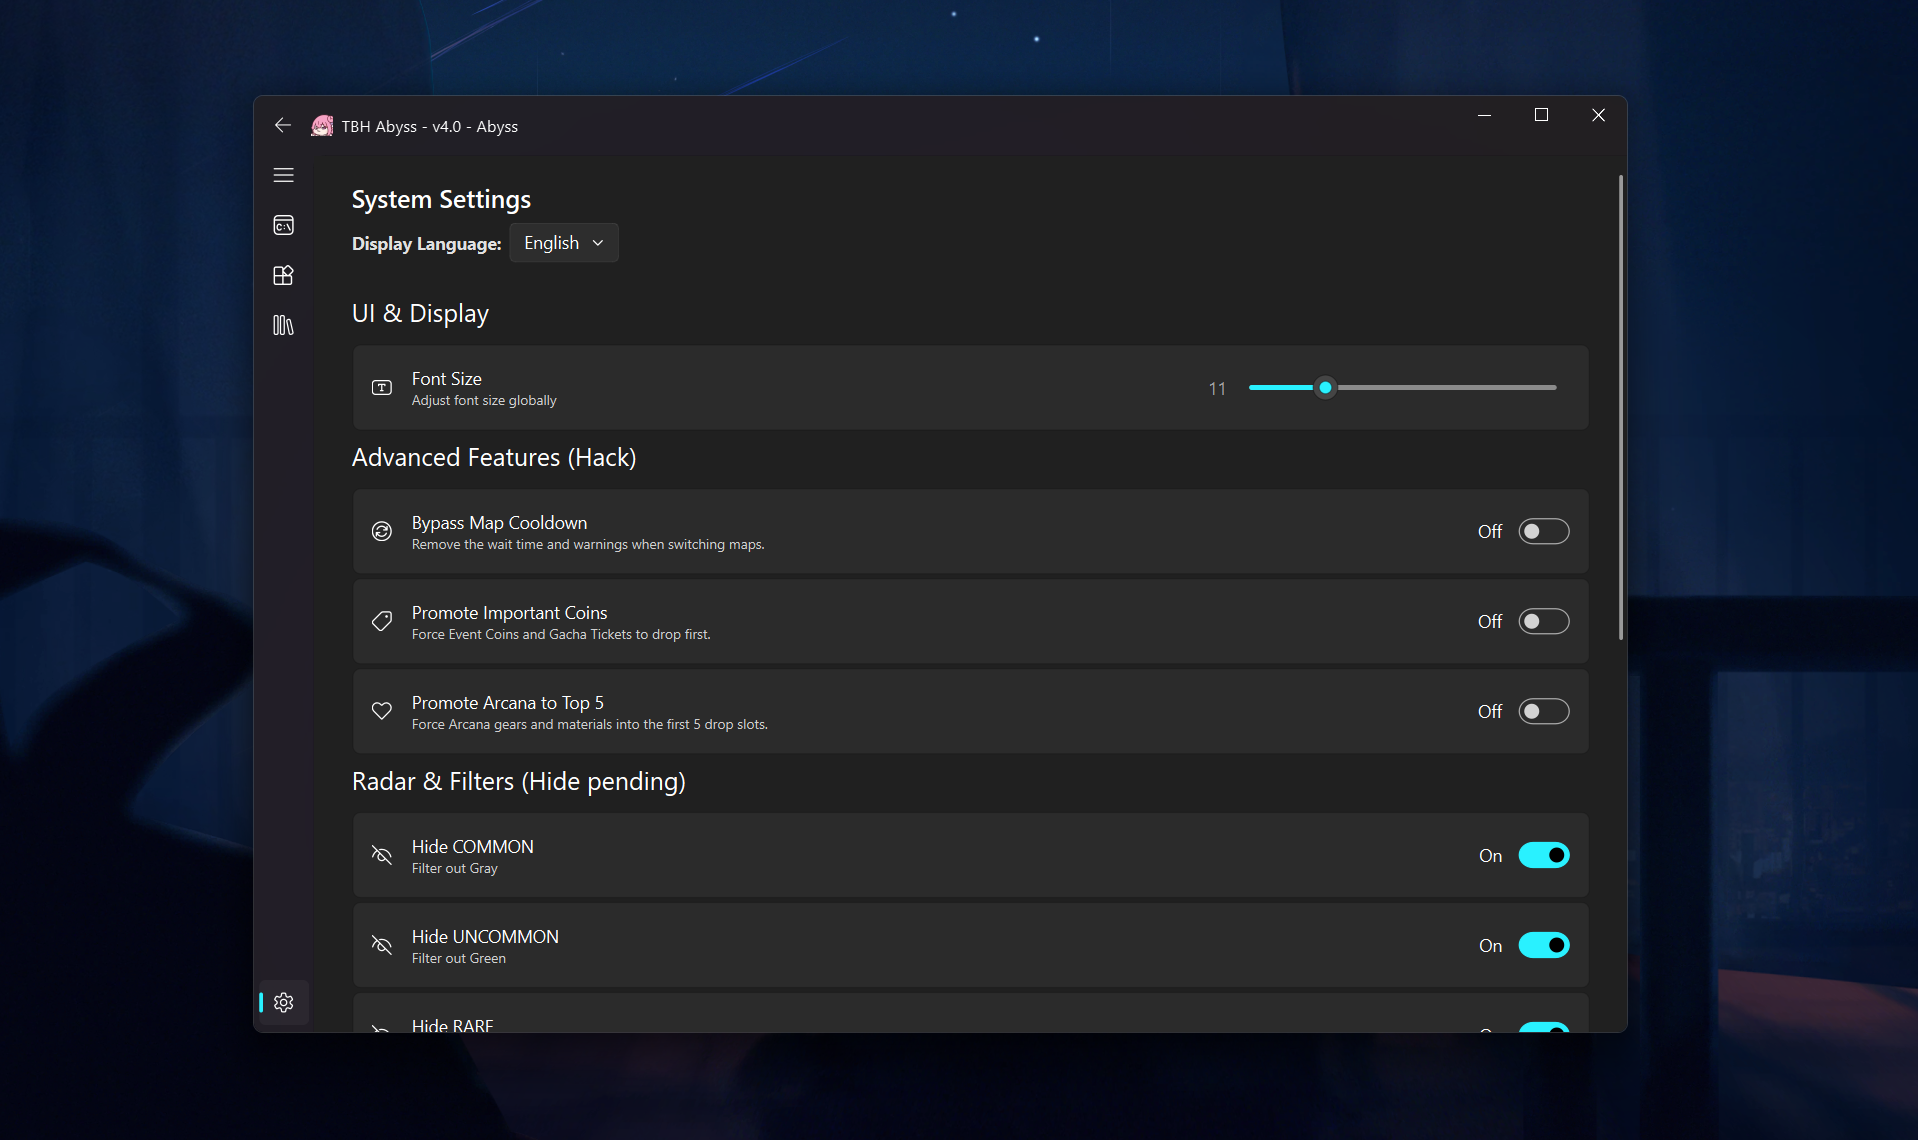
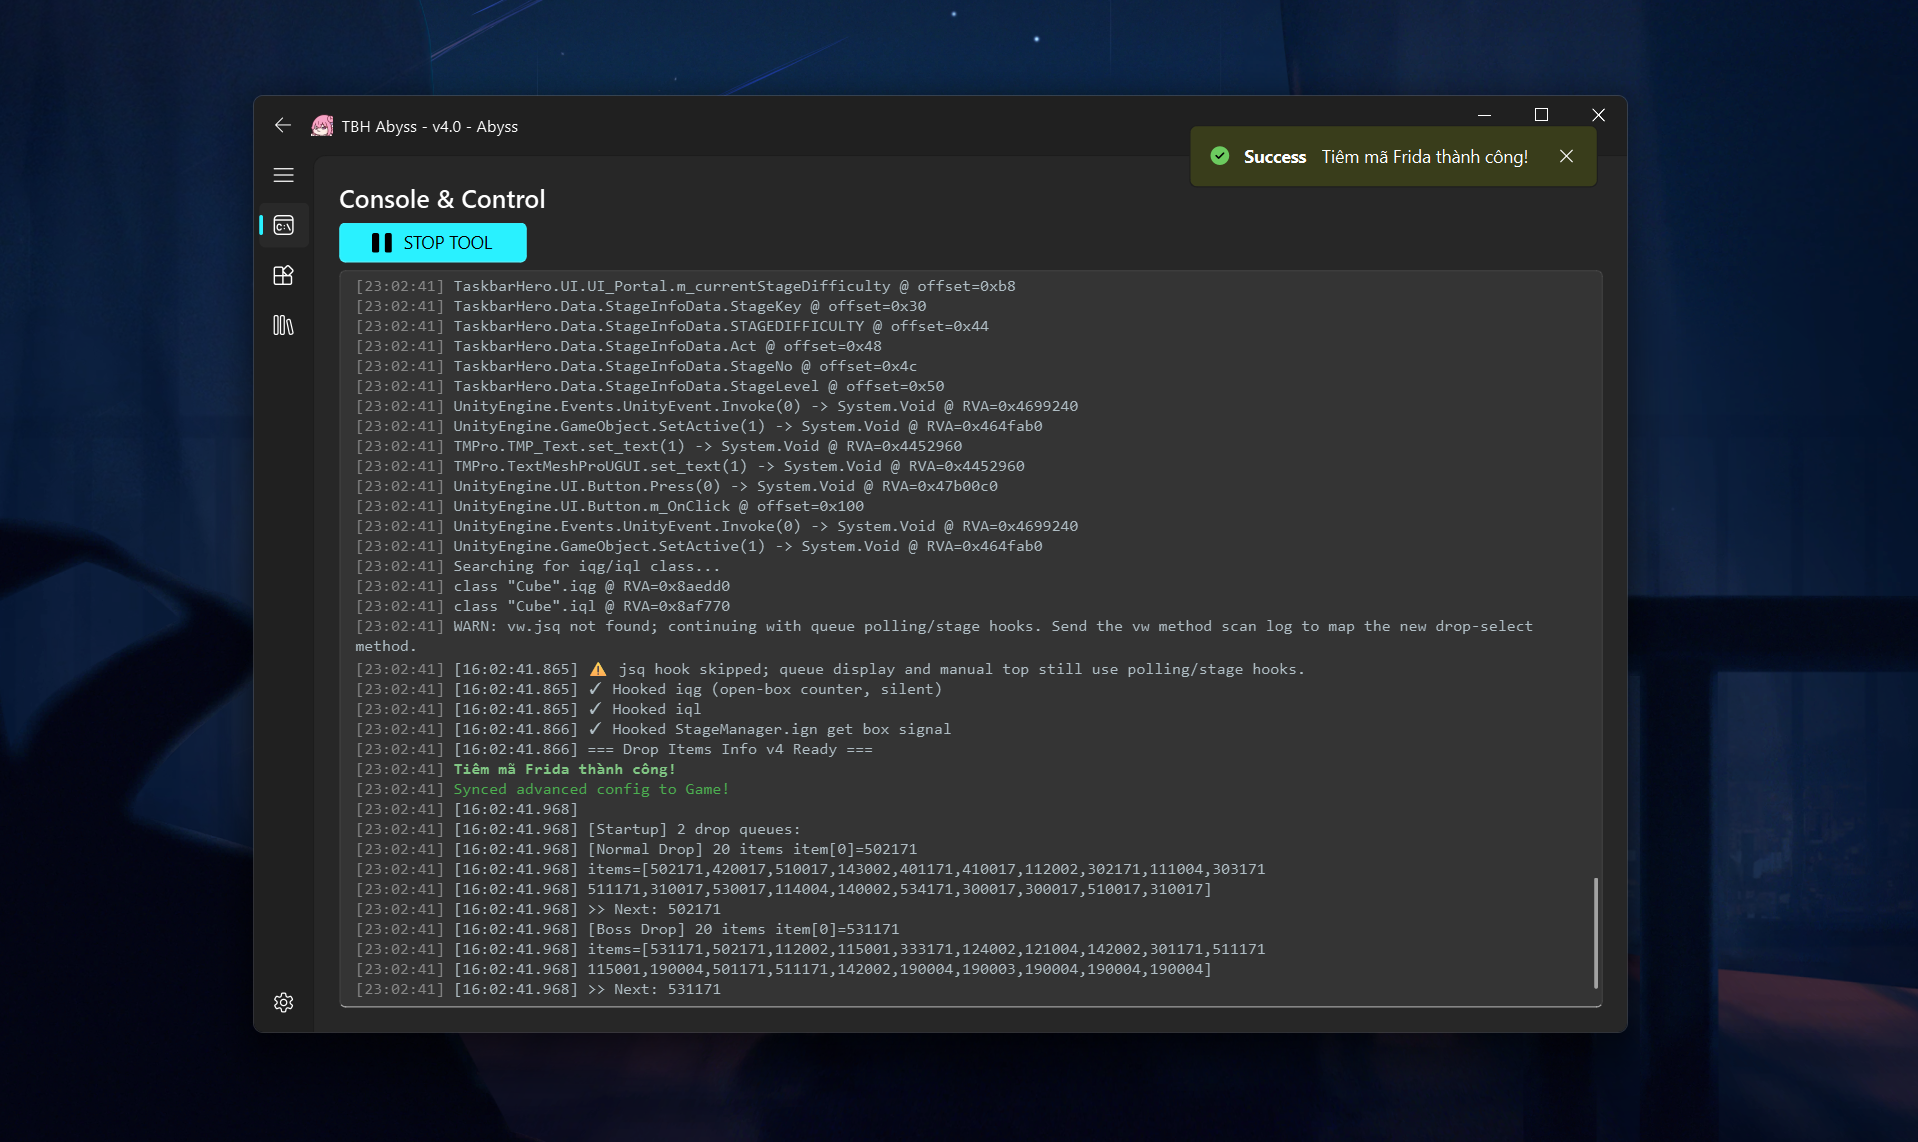
README.md

diff --git a/README.md b/README.md
@@ -6,13 +6,12 @@
 
 ---
 
-[Giao diện tool](resources/assets/readme_0.png)
-[Giao diện tool](resources/assets/readme_1.png)
-[Giao diện tool](resources/assets/readme_2.png)
-[Giao diện tool](resources/assets/readme_3.png)
-[Giao diện tool](resources/assets/readme_4.png)
-[Giao diện tool](resources/assets/readme_5.png)
-[Giao diện tool](resources/assets/readme_6.png)
+![Giao diện tool](resources/assets/readme_0.png)
+![Giao diện tool](resources/assets/readme_1.png)
+![Giao diện tool](resources/assets/readme_2.png)
+![Giao diện tool](resources/assets/readme_3.png)
+![Giao diện tool](resources/assets/readme_4.png)
+![Giao diện tool](resources/assets/readme_5.png)
 
 ---
 
